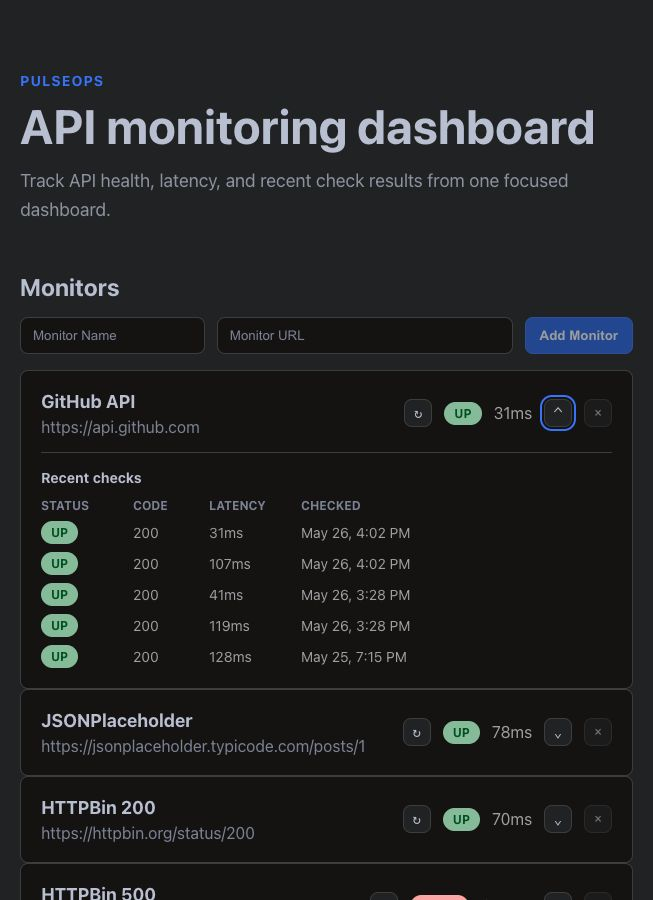
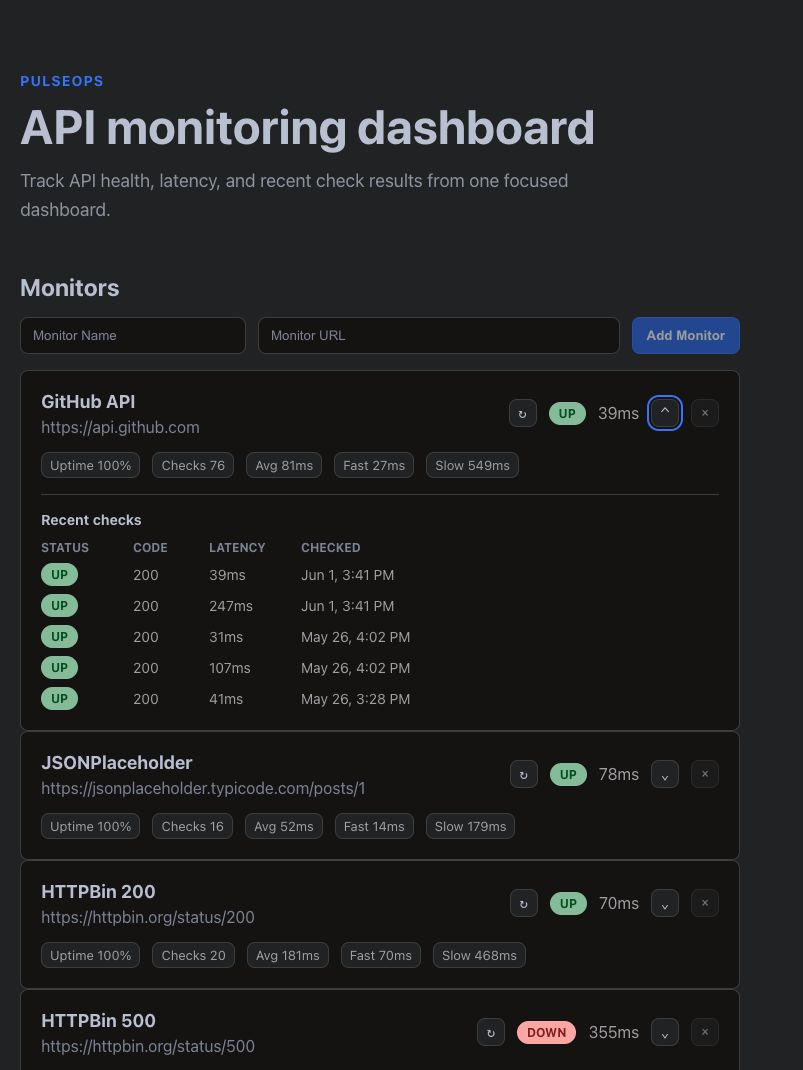
Update README and documentation to reflect version completion and feature enhancements

diff --git a/README.md b/README.md
@@ -1,8 +1,10 @@
 # PulseOps
 
-PulseOps is an in-progress full-stack web app for monitoring API endpoints from a React dashboard backed by a Spring Boot REST API.
+PulseOps is a full-stack API monitoring dashboard built with a React frontend, a Spring Boot REST API, and PostgreSQL.
 
-The current version supports adding API monitors, running manual health checks, storing recent check history, and viewing status/latency from the frontend. Planned later versions can add scheduled checks, uptime analytics, incident records, and AI-assisted incident summaries.
+Version 1 is complete. It supports adding API monitors, running manual health checks, storing recent check history, deleting monitors, and viewing status, latency, uptime percentage, response-time summaries, latest errors, and last failure time from the frontend.
+
+Version 2 will focus on scheduled checks, richer uptime analytics, incident records, alerts, and AI-assisted incident summaries.
 
 ## Screenshots
 
@@ -16,13 +18,13 @@ Build a resume-ready app that demonstrates:
 - HTTP client calls from the backend
 - PostgreSQL persistence
 - API health checks
-- latency tracking and recent check history
+- latency tracking, uptime summaries, and recent check history
 - React dashboard UI
 - clean separation between frontend and backend
 
 ## Current Demo Story
 
-A user adds an API endpoint to the monitor list, runs a health check, and sees the latest status, status code, response time, and recent check history.
+A user adds an API endpoint to the monitor list, runs a health check, and sees the latest status, status code, response time, uptime percentage, response-time summary statistics, latest error, last failure time, and recent check history.
 
 ## Tech Stack
 
@@ -51,16 +53,28 @@ pulseops/
 - [Architecture](docs/ARCHITECTURE.md)
 - [Roadmap](docs/ROADMAP.md)
 
-## Version 1 Scope
+## Version 1 Complete
 
 Users can:
 
 - add an API endpoint to the monitor list
 - manually run a health check
 - see status code, response time, and last checked time
+- see uptime percentage and total checks
+- see average, fastest, and slowest response times
+- see the latest request error and last failure time
 - view recent check history
 - delete monitors and their check history
 
 The backend also exposes a curated public APIs endpoint that can be connected to the frontend discovery flow later.
 
-Later versions can add scheduled checks, uptime percentages, incident records, AI summaries, deployment, and alternate Go/Python backends.
+## Version 2 Ideas
+
+- scheduled background checks
+- richer uptime and error-rate analytics
+- incident records
+- alerts or notifications
+- frontend discovery flow for curated public APIs
+- AI-assisted incident summaries
+- deployment
+- alternate Go or Python backend implementations

diff --git a/docs/ARCHITECTURE.md b/docs/ARCHITECTURE.md
@@ -11,9 +11,9 @@ React + Vite frontend
     -> External API endpoints
 ```
 
-The frontend manages the monitor dashboard, user input, loading states, and recent check history display.
+The frontend manages the monitor dashboard, user input, loading states, monitor summary statistics, error details, and recent check history display.
 
-The backend owns monitor validation, persistence, endpoint health checks, and API response shaping.
+The backend owns monitor validation, persistence, endpoint health checks, summary-stat calculation, and API response shaping.
 
 PostgreSQL stores monitored endpoints and historical check results. Tests use H2 so backend integration tests can run without a local Postgres instance.
 
@@ -24,7 +24,8 @@ PostgreSQL stores monitored endpoints and historical check results. Tests use H2
 3. Spring Boot validates and stores the monitor with status `UNKNOWN`.
 4. A user clicks check now.
 5. The backend calls the monitor URL, records status code, latency, checked time, and any request error.
-6. The frontend refreshes the monitor list and can load recent check history.
+6. The backend recalculates monitor summary fields from stored check results.
+7. The frontend refreshes the monitor list and displays status, uptime percentage, latency summaries, latest error details, and recent check history.
 
 ## Data Model
 
@@ -42,6 +43,16 @@ Fields:
 - `last_response_time_ms`
 - `last_checked_at`
 - `created_at`
+
+Computed response fields:
+
+- `totalChecks`
+- `uptimePercentage`
+- `averageResponseTimeMs`
+- `fastestResponseTimeMs`
+- `slowestResponseTimeMs`
+- `latestErrorMessage`
+- `lastFailureAt`
 
 Status values currently used:
 
@@ -89,4 +100,4 @@ PublicApi can be copied into a Monitor later
 
 ## Planned Extensions
 
-Future versions may add scheduled checks, uptime calculations, incident records, AI-generated summaries, and alternate backend implementations in Go or Python.
+Future versions may add scheduled checks, richer error-rate analytics, incident records, alerts, AI-generated summaries, and alternate backend implementations in Go or Python.

diff --git a/docs/ROADMAP.md b/docs/ROADMAP.md
@@ -2,7 +2,7 @@
 
 This document separates what PulseOps supports today from planned future work.
 
-## Version 1
+## Version 1 - Complete
 
 Users can:
 
@@ -10,6 +10,9 @@ Users can:
 - manually run a health check
 - see whether the endpoint is up or down
 - see status code, response time, and last checked time
+- see total checks and uptime percentage
+- see average, fastest, and slowest response times
+- see the latest request error and last failure time
 - view recent check history for an endpoint
 - delete a monitor and its check history
 
@@ -32,10 +35,12 @@ The first version does not include:
 Possible next features:
 
 - scheduled checks
-- uptime percentage
+- richer uptime and error-rate analytics
 - error rate
 - basic incident records
+- alerts or notifications
 - frontend discovery flow for curated public APIs
+- deployment
 
 ## Later Ideas
 
@@ -44,6 +49,5 @@ Possible next features:
 - provider status page lookup
 - top monitored APIs
 - API search tracking
-- deployment to the internet
 - Go backend implementation
 - Python FastAPI backend implementation
